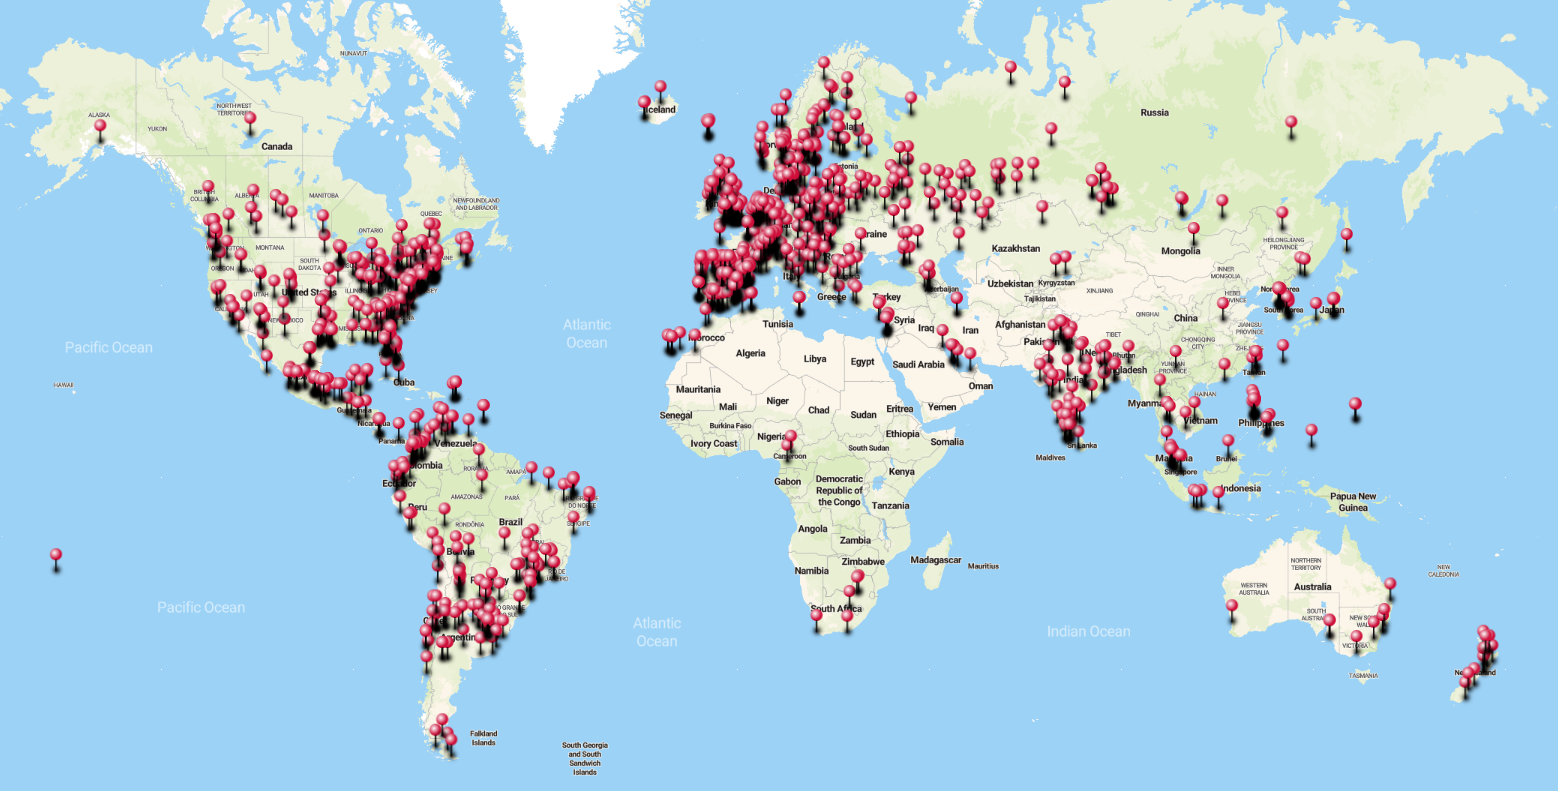
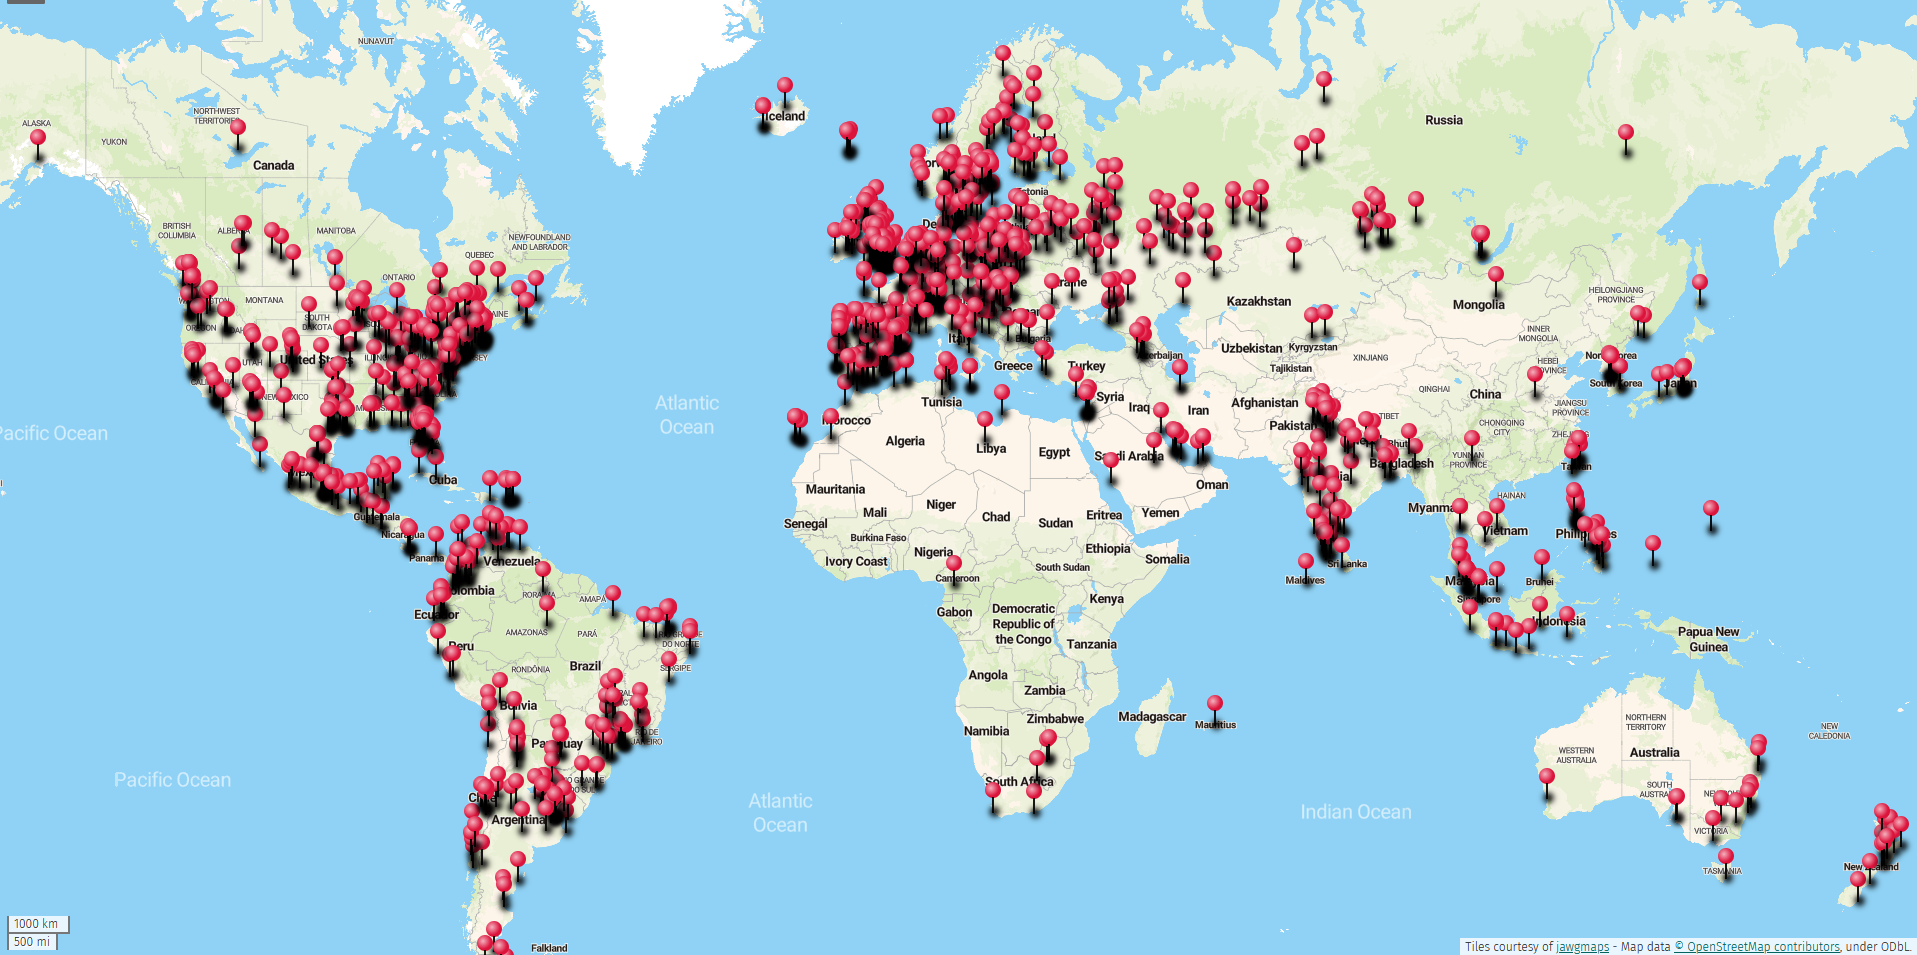
Mauritius

diff --git a/docs/Countries.md b/docs/Countries.md
@@ -4,4 +4,4 @@ The following list has been compiled from usage data gathered since January 2024
 
 | Used at National or Continental Events                       | Used for Local or State Events                               |
 | ------------------------------------------------------------ | ------------------------------------------------------------ |
-| The national federations in these countries have used the software for national, multi-national or continental events, as well as local, club or regional events<br/><br/>Albania<br/>Algeria<br/>Argentina<br/>Armenia<br/>Bahrain<br/>Belgium<br/>Bolivia<br/>Bosnia and Herzegovina<br/>Brazil<br/>Canada<br/>Chile<br/>Colombia<br/>Cuba<br/>Curaçao<br/>Denmark<br/>Ecuador<br/>El Salvador<br/>Estonia<br/>Faroe Islands<br/>Finland<br/>France<br/>Georgia<br/>Greece<br/>Hungary<br/>Iceland<br/>India<br/>Israel<br/>Lithuania<br/>Mexico<br/>New Zealand<br/>Norway<br/>Peru<br/>Poland<br/>Portugal<br/>Puerto Rico<br/>Russia<br/>Saudi Arabia<br/>Singapore<br/>Spain (Masters)<br/>Sweden<br/>Switzerland<br/>The Netherlands<br/>United Arab Emirates<br/>United Kingdom<br/>United States<br/>Uruguay<br/>Venezuela<br /><br /><br /><br /><br /><br /> | In addition, there is documented usage in individual clubs or regions of the following federations<br/><br/>Aruba<br />Australia<br/>Austria<br/>Belarus<br/>Bulgaria<br/>Brunei<br/>Cambodia<br/>Cameroon<br/>China<br/>Cook Islands<br/>Costa Rica<br/>Croatia<br/>Cyprus<br/>Czechia<br/>Germany<br/>Guam<br/>Guatemala<br/>Honduras<br/>Hong Kong<br/>Indonesia<br/>Iran<br/>Ireland<br/>Italy<br/>Japan<br/>Kazakhstan<br/>Kosovo<br />Kyrgyzstan<br/>Libya<br/>Luxembourg<br/>Malaysia<br/>Maldives<br/>Malta<br/>Moldova<br/>Mongolia<br/>Morocco<br />Nepal<br/>Palau<br/>Panama<br/>Philippines<br/>Qatar<br/>Romania<br/>Serbia<br/>Slovenia<br/>South Africa<br/>South Korea<br/>Sri Lanka<br/>Taiwan<br/>Thailand<br/>Tunisia<br />Türkiye<br/>Ukraine<br/>Vietnam<br/> |
+| The national federations in these countries have used the software for national, multi-national or continental events, as well as local, club or regional events<br/><br/>Albania<br/>Algeria<br/>Argentina<br/>Armenia<br/>Bahrain<br/>Belgium<br/>Bolivia<br/>Bosnia and Herzegovina<br/>Brazil<br/>Canada<br/>Chile<br/>Colombia<br/>Cuba<br/>Curaçao<br/>Denmark<br/>Ecuador<br/>El Salvador<br/>Estonia<br/>Faroe Islands<br/>Finland<br/>France<br/>Georgia<br/>Greece<br/>Hungary<br/>Iceland<br/>India<br/>Israel<br/>Lithuania<br/>Mexico<br/>New Zealand<br/>Norway<br/>Peru<br/>Poland<br/>Portugal<br/>Puerto Rico<br/>Russia<br/>Saudi Arabia<br/>Singapore<br/>Spain (Masters)<br/>Sweden<br/>Switzerland<br/>The Netherlands<br/>United Arab Emirates<br/>United Kingdom<br/>United States<br/>Uruguay<br/>Venezuela<br /><br /><br /><br /><br /><br /><br /> | In addition, there is documented usage in individual clubs or regions of the following federations<br/><br/>Aruba<br />Australia<br/>Austria<br/>Belarus<br/>Bulgaria<br/>Brunei<br/>Cambodia<br/>Cameroon<br/>China<br/>Cook Islands<br/>Costa Rica<br/>Croatia<br/>Cyprus<br/>Czechia<br/>Germany<br/>Guam<br/>Guatemala<br/>Honduras<br/>Hong Kong<br/>Indonesia<br/>Iran<br/>Ireland<br/>Italy<br/>Japan<br/>Kazakhstan<br/>Kosovo<br />Kyrgyzstan<br/>Libya<br/>Luxembourg<br/>Malaysia<br/>Maldives<br/>Malta<br/>Mauritius<br />Moldova<br/>Mongolia<br/>Morocco<br />Nepal<br/>Palau<br/>Panama<br/>Philippines<br/>Qatar<br/>Romania<br/>Serbia<br/>Slovenia<br/>South Africa<br/>South Korea<br/>Sri Lanka<br/>Taiwan<br/>Thailand<br/>Tunisia<br />Türkiye<br/>Ukraine<br/>Vietnam<br/> |

diff --git a/docs/index.md b/docs/index.md
@@ -16,7 +16,7 @@
 ### Gallery
 
 <table>
-<tr><td><a href="http://u.osmfr.org/m/1156248/" target="_bkank"><img src='img/Gallery/Map.png'></a></td><td>Current Usage (each pin is a city where the software has reported usage last 6 months)<br/><a href="http://u.osmfr.org/m/1156248/" target="_blank">Click on image for an interactive map</a>.<br/>The owlcms competition management system is currently in use in over 90 federations.  See here for <a href="./#/Countries">a list</a></td></tr>
+<tr><td><a href="http://u.osmfr.org/m/1156248/" target="_bkank"><img src='img/Gallery/Map.png'></a></td><td>Current Usage (each pin is a city where the software has reported usage last 6 months)<br/><a href="http://u.osmfr.org/m/1156248/" target="_blank">Click on image for an interactive map</a>.<br/>The owlcms competition management system is currently in use in over 95 federations.  See here for <a href="./#/Countries">a list</a></td></tr>
 <tr><td><img src='img/Gallery/IMG_5050.jpg'></img></td><td>USA National Championships<br>1500 athletes, 9 days (U11, U13, U15, U17, U20, U23, U25, Open and Adaptive championships)</td></tr>
 <tr><td><img src='img/Gallery/ElSalvador.jpg'></img></td><td>National Competition, El Salvador.<br>A simple setup with everyday electronics.</td></tr>
 <tr><td><img src='img/Gallery/IMG_6536.jpg' size=250></img></td><td>Club meet, Montreal, Canada.<br>Supports mixed-gender kid groups.  Attempt board shows correct loading for 5kg/10kg bars and 2.5kg/5kg large plates.</td></tr>
